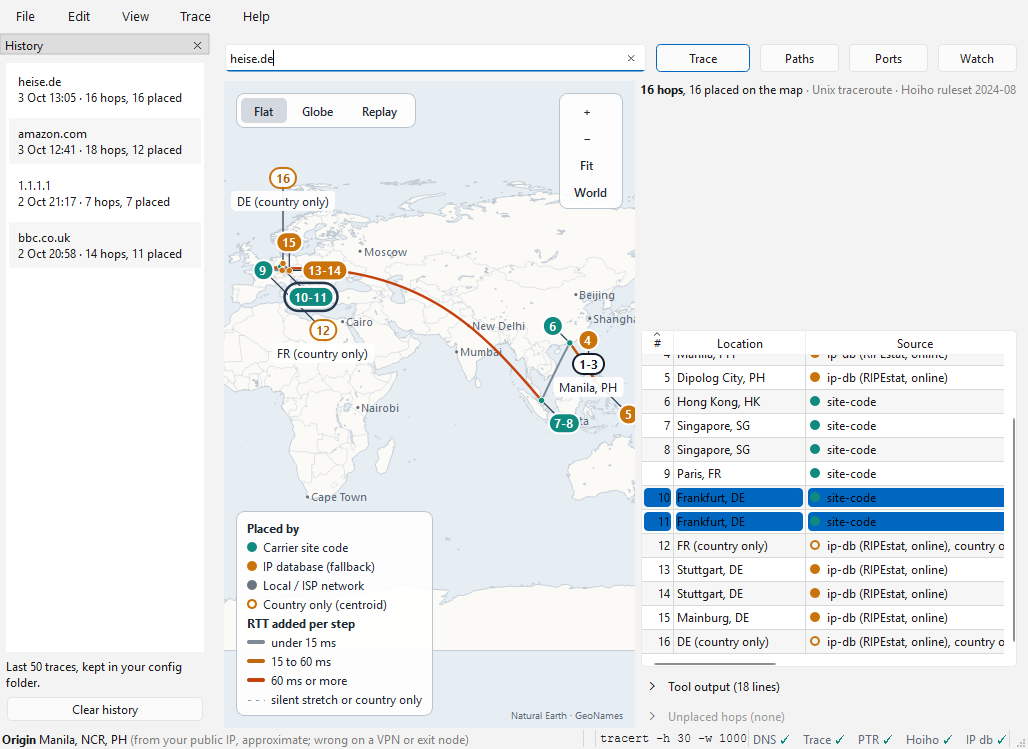
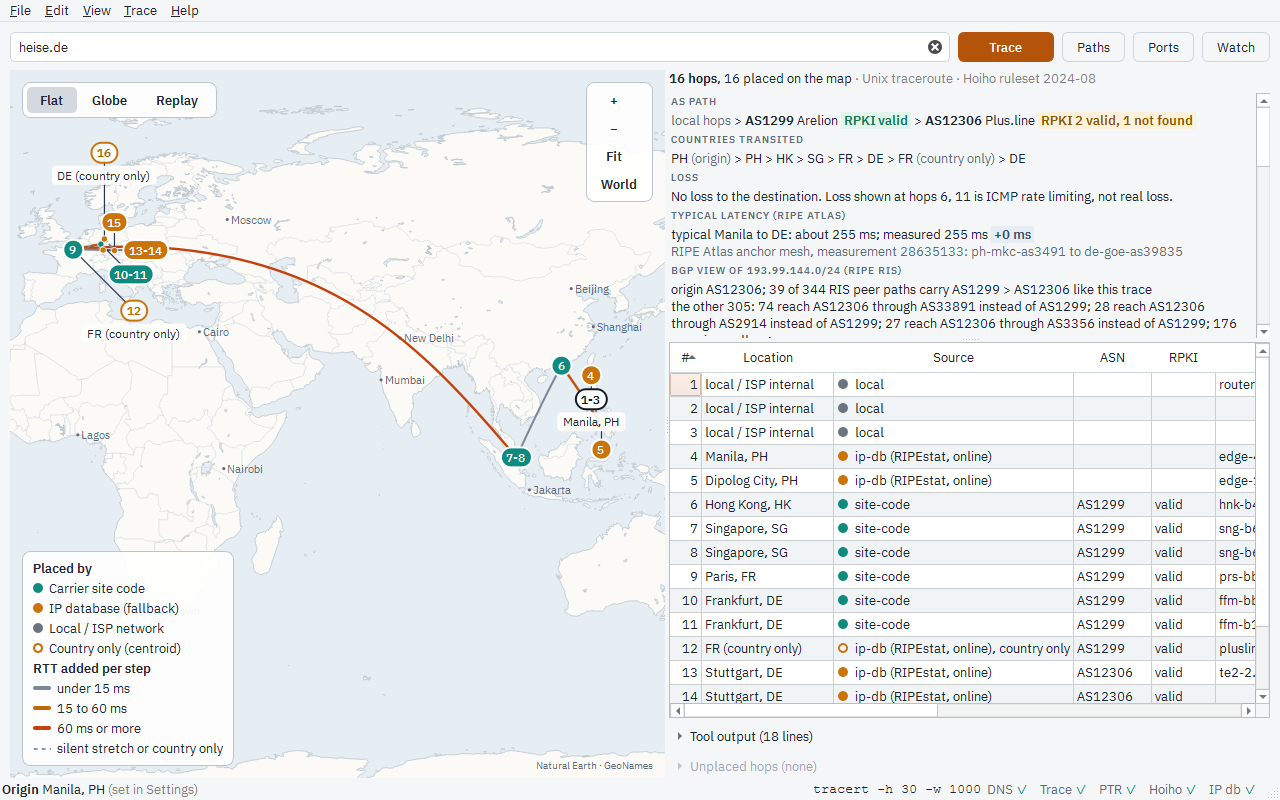
Site: the Windows image from the mockup workflow's Windows runner (run 40270643109)

Changed region(s): [[0.0, 0.0, 1.0, 1.0], [0.3113, 0.6449, 0.3424, 0.6756]]

diff --git a/site/content/screenshots.html b/site/content/screenshots.html
@@ -24,7 +24,7 @@ The images follow this site's light or dark mode, as the app follows the system.
   <figcaption><strong>Compare two runs.</strong> Against an earlier run: the same path through Hong Kong, Singapore and Paris, except that hop 8 now answers from Singapore instead of Marseille.</figcaption>
 </figure>
 <figure class="shot narrow">
-  [[pic windows png 1028 749 bare|Route Map {{tag}} on Windows with the same saved trace from Manila to heise.de: the map, the route summary and the hop table (RIPEstat and RIPE Atlas data of 26 Oct 2026)]]
+  [[pic windows png 1280 800 bare|Route Map {{tag}} on Windows with the same saved trace from Manila to heise.de: the map, the route summary and the hop table (RIPEstat and RIPE Atlas data of 26 Oct 2026)]]
   <figcaption><strong>Windows</strong> (light theme), rendered by the app on a Windows runner from the same saved trace.</figcaption>
 </figure>
 <div class="pair">
